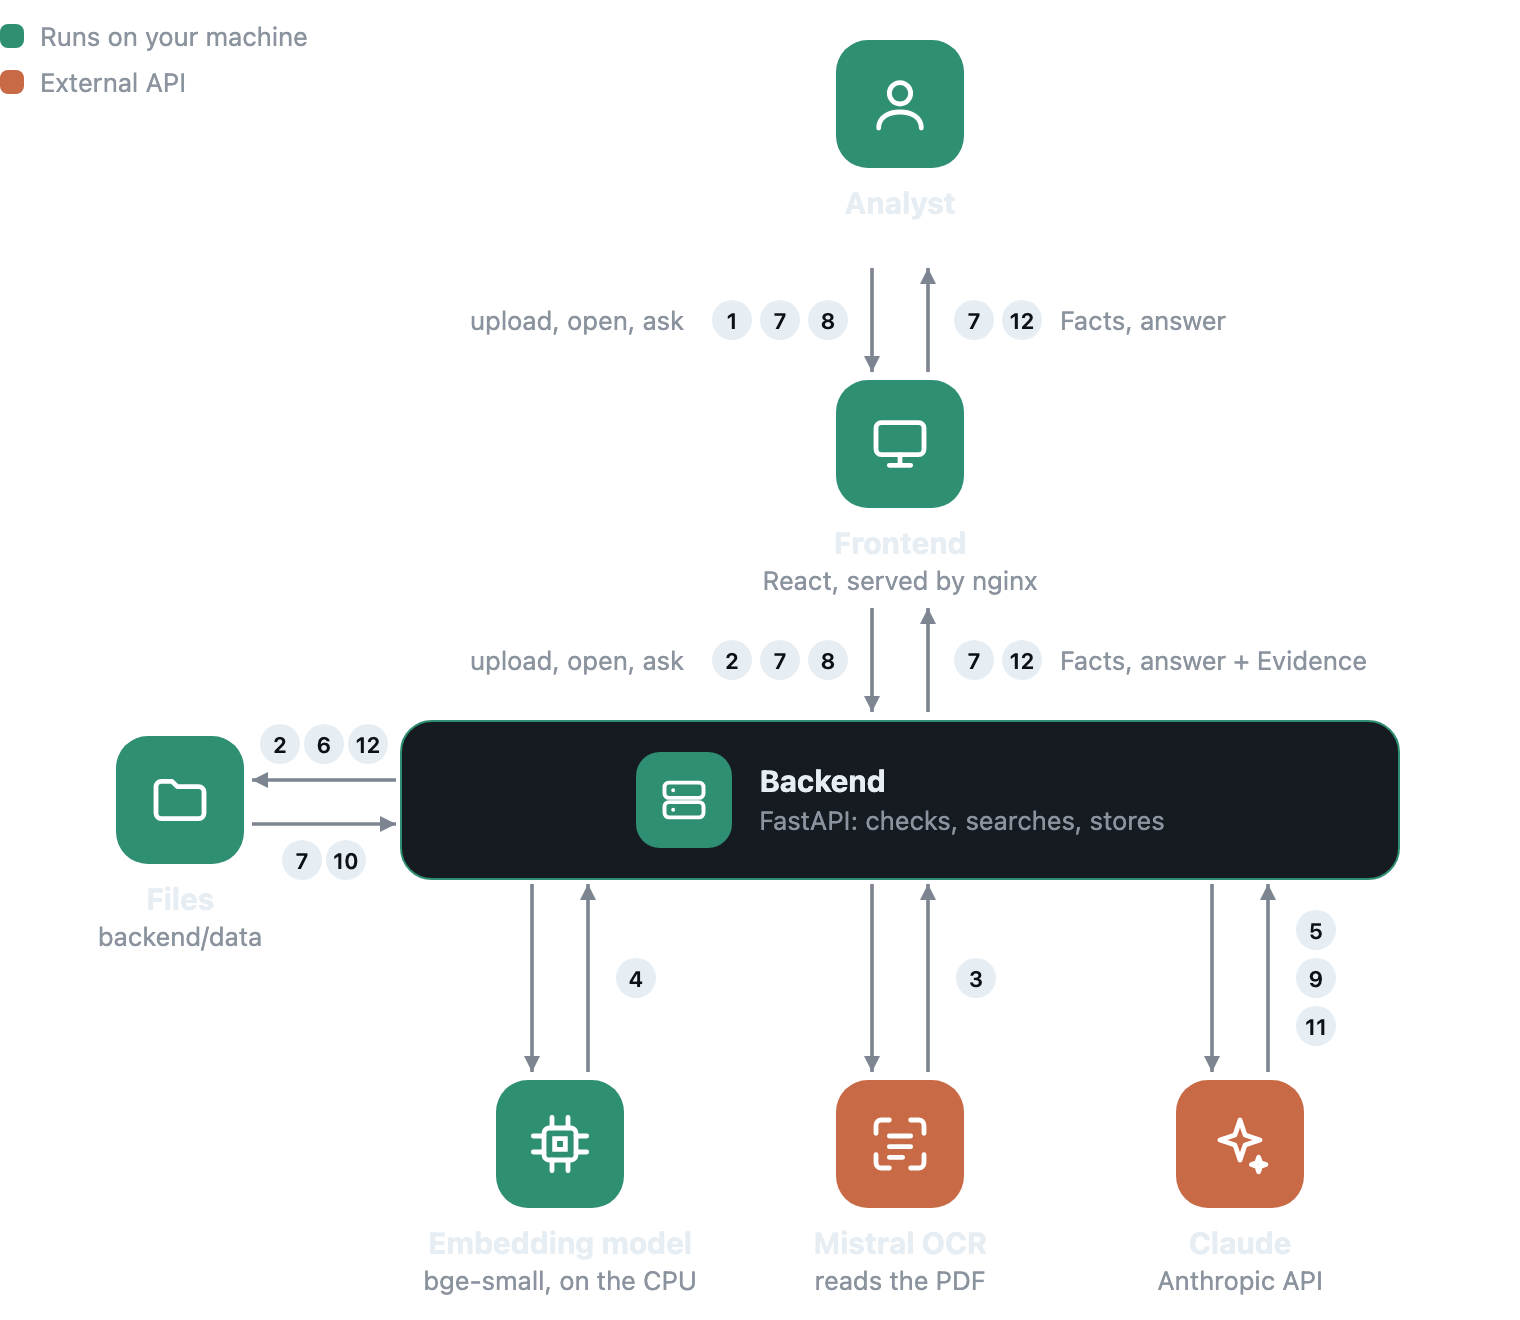
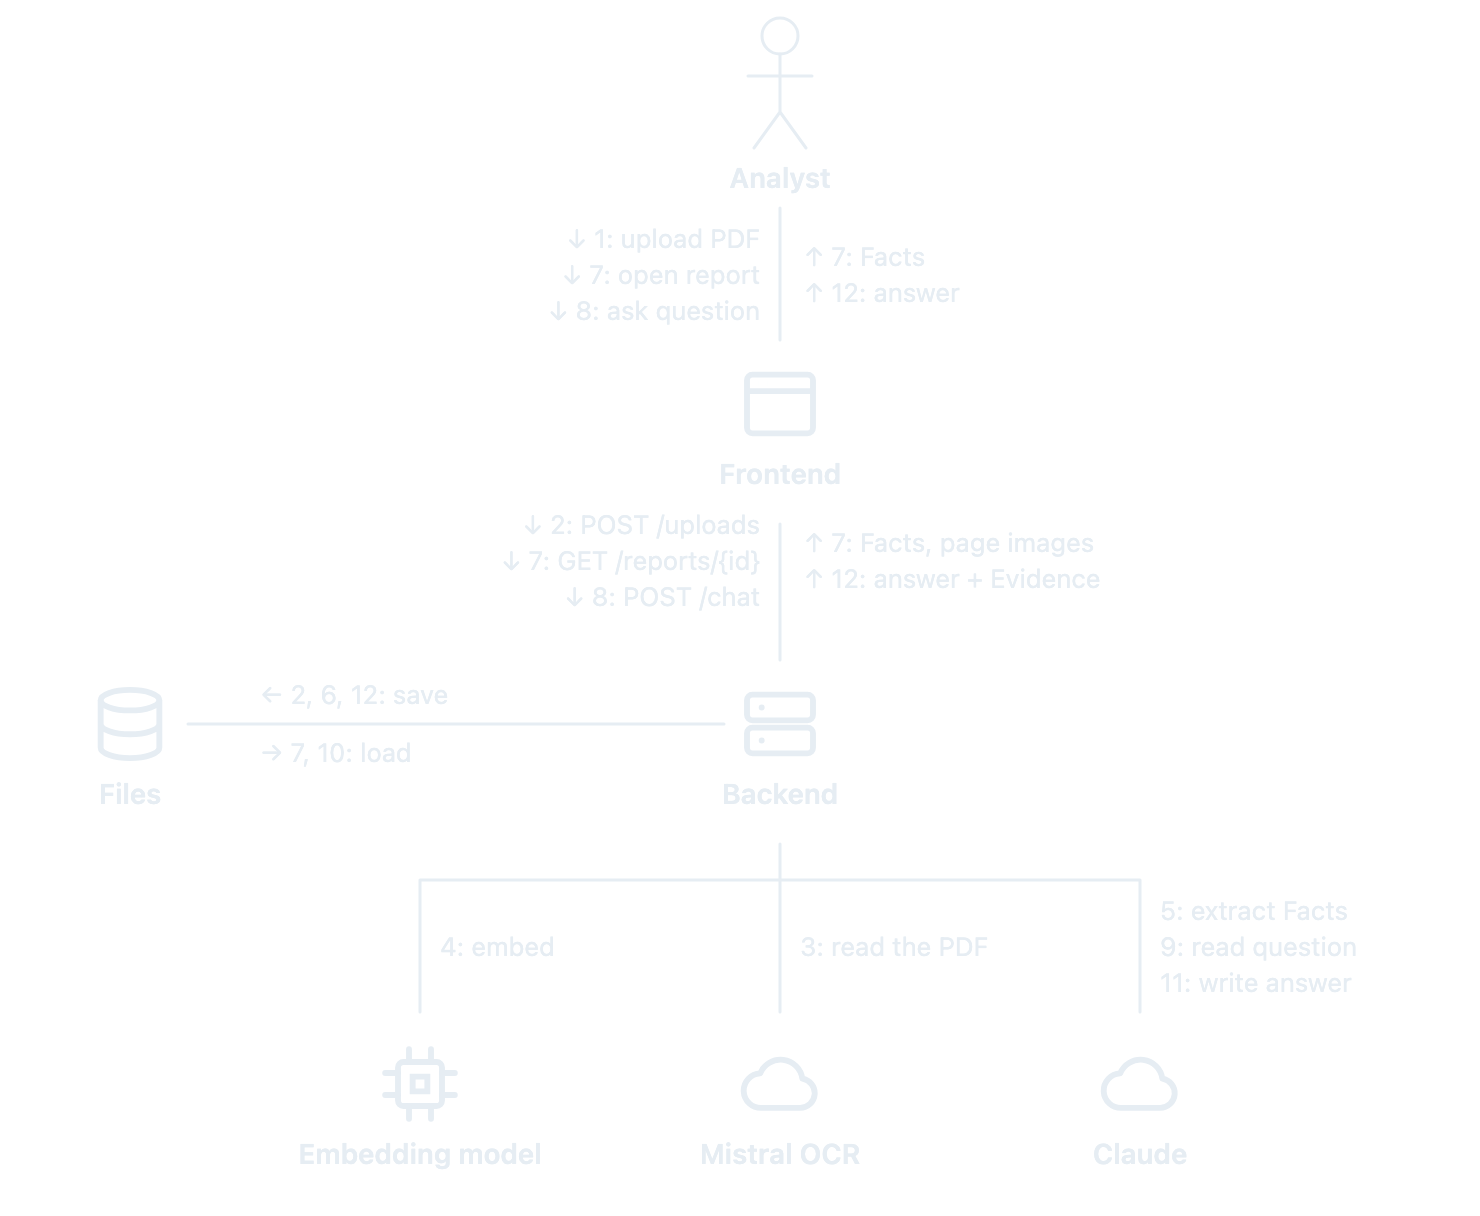
Docs: redraw how-it-works as a plain UML-style diagram
Stick-figure analyst, line icons for each part, and numbered messages along
the links, in black and white for both GitHub themes.

Changed region(s): [[0.0622, 0.1875, 0.9324, 1.0], [0.4973, 0.0312, 0.6527, 0.1562], [0.0, 0.0, 0.1865, 0.0938]]

diff --git a/docs/how-it-works.html b/docs/how-it-works.html
@@ -1,5 +1,6 @@
 <!doctype html>
-<!-- Source of docs/screenshots/how-it-works-{light,dark}.png; the numbered steps are listed in README.md.
+<!-- Source of docs/screenshots/how-it-works-{light,dark}.png, a UML communication diagram;
+     the numbered steps are listed in README.md.
      To update: edit, then screenshot #canvas at 2x with a transparent background,
      once as is and once with #dark in the URL. -->
 <html lang="en">
@@ -7,102 +8,63 @@
 <meta charset="utf-8">
 <title>How it works</title>
 <style>
-  :root {
-    --card: #ffffff; --line: #d3dcd8; --ink: #1c2522; --muted: #5d6b66;
-    --local: #2f7d66; --external: #c2603e; --arrow: #7d8c87; --badge: #1c2522; --badge-ink: #ffffff;
-  }
-  :root[data-theme="dark"] {
-    --card: #161b22; --line: #30363d; --ink: #e6edf3; --muted: #8b949e;
-    --local: #2f8f72; --external: #c96a47; --arrow: #7d8590; --badge: #e6edf3; --badge-ink: #0d1117;
-  }
+  :root { --ink: #1f2328; --muted: #57606a; --box: #ffffff; }
+  :root[data-theme="dark"] { --ink: #e6edf3; --muted: #9198a1; --box: #0d1117; }
   * { box-sizing: border-box; margin: 0; }
-  body { background: transparent; font: 14px/1.3 -apple-system, BlinkMacSystemFont, "Segoe UI", sans-serif; color: var(--ink); }
-  #canvas { position: relative; width: 760px; height: 660px; }
-  .node { position: absolute; width: 180px; margin-left: -90px; display: flex; flex-direction: column; align-items: center; text-align: center; }
-  .tile { width: 64px; height: 64px; border-radius: 16px; display: grid; place-items: center; color: #fff; background: var(--local); }
-  .tile.external { background: var(--external); }
-  .tile svg { width: 32px; height: 32px; }
-  .node b { margin-top: 8px; font-size: 15px; }
-  .node span, .backend span { font-size: 13px; color: var(--muted); }
-  .backend { position: absolute; left: 200px; top: 360px; width: 500px; height: 80px; display: flex; align-items: center; justify-content: center; gap: 14px; background: var(--card); border: 1.5px solid var(--local); border-radius: 16px; }
-  .backend .tile { width: 48px; height: 48px; border-radius: 12px; }
-  .backend .tile svg { width: 26px; height: 26px; }
-  .backend b { display: block; font-size: 15px; }
-  .label { position: absolute; font-size: 13px; color: var(--muted); white-space: nowrap; }
-  .label.left { text-align: right; }
-  .legend { position: absolute; left: 0; top: 10px; display: flex; flex-direction: column; gap: 6px; font-size: 13px; color: var(--muted); }
-  .legend i { display: inline-block; width: 12px; height: 12px; border-radius: 4px; margin-right: 8px; vertical-align: -1px; }
+  body { background: transparent; font: 13px/1.35 -apple-system, BlinkMacSystemFont, "Segoe UI", Helvetica, Arial, sans-serif; color: var(--ink); }
+  #canvas { position: relative; width: 740px; height: 608px; }
+  #shift { position: absolute; left: -140px; top: 0; width: 880px; height: 608px; }
+  .box { position: absolute; height: 86px; gap: 4px; display: flex; flex-direction: column; align-items: center; justify-content: center; }
+  .box i { font-style: normal; font-size: 11.5px; color: var(--muted); }
+  .box b { font-size: 14px; font-weight: 600; }
+  .box small { font-size: 11.5px; color: var(--muted); }
+  .box svg { width: 44px; height: 44px; }
+  .msg { position: absolute; white-space: nowrap; line-height: 18px; }
+  .msg.left { text-align: right; }
   svg.wires { position: absolute; inset: 0; }
-  svg.wires text { font: 600 11px -apple-system, BlinkMacSystemFont, "Segoe UI", sans-serif; fill: var(--badge-ink); }
 </style>
 </head>
 <body>
 <script>if (location.hash === "#dark") document.documentElement.dataset.theme = "dark";</script>
 <svg width="0" height="0" style="position:absolute">
-  <defs>
-    <symbol id="i-user" viewBox="0 0 24 24" fill="none" stroke="currentColor" stroke-width="1.8" stroke-linecap="round"><circle cx="12" cy="8" r="4"/><path d="M4 21c0-4 3.6-6 8-6s8 2 8 6"/></symbol>
-    <symbol id="i-monitor" viewBox="0 0 24 24" fill="none" stroke="currentColor" stroke-width="1.8" stroke-linecap="round" stroke-linejoin="round"><rect x="3" y="4" width="18" height="12" rx="2"/><path d="M8 20h8M12 16v4"/></symbol>
-    <symbol id="i-server" viewBox="0 0 24 24" fill="none" stroke="currentColor" stroke-width="1.8" stroke-linecap="round"><rect x="3" y="4" width="18" height="7" rx="2"/><rect x="3" y="13" width="18" height="7" rx="2"/><path d="M7 7.5h.01M7 16.5h.01"/></symbol>
-    <symbol id="i-folder" viewBox="0 0 24 24" fill="none" stroke="currentColor" stroke-width="1.8" stroke-linejoin="round"><path d="M3 7a2 2 0 0 1 2-2h4l2 2h8a2 2 0 0 1 2 2v8a2 2 0 0 1-2 2H5a2 2 0 0 1-2-2z"/></symbol>
-    <symbol id="i-cpu" viewBox="0 0 24 24" fill="none" stroke="currentColor" stroke-width="1.8" stroke-linecap="round"><rect x="6" y="6" width="12" height="12" rx="2"/><path d="M10 10h4v4h-4zM9 2v4M15 2v4M9 18v4M15 18v4M2 9h4M2 15h4M18 9h4M18 15h4"/></symbol>
-    <symbol id="i-scan" viewBox="0 0 24 24" fill="none" stroke="currentColor" stroke-width="1.8" stroke-linecap="round"><path d="M3 8V5a2 2 0 0 1 2-2h3M16 3h3a2 2 0 0 1 2 2v3M21 16v3a2 2 0 0 1-2 2h-3M8 21H5a2 2 0 0 1-2-2v-3M8 9h8M8 13h8M8 17h5"/></symbol>
-    <symbol id="i-spark" viewBox="0 0 24 24" fill="none" stroke="currentColor" stroke-width="1.8" stroke-linejoin="round"><path d="M12 3l1.9 5.6L19.5 10.5l-5.6 1.9L12 18l-1.9-5.6L4.5 10.5l5.6-1.9z"/><path d="M19 17l.7 2 2 .7-2 .7-.7 2-.7-2-2-.7 2-.7z"/></symbol>
-    <marker id="head" viewBox="0 0 10 10" refX="10" refY="5" markerWidth="8" markerHeight="8" markerUnits="userSpaceOnUse" orient="auto"><path d="M0 0L10 5L0 10z" fill="var(--arrow)"/></marker>
-    <g id="badge"><circle r="10" fill="var(--badge)"/></g>
-  </defs>
+  <!-- line icons, top right of each box -->
+  <symbol id="browser" viewBox="0 0 24 24" fill="none" stroke="var(--ink)" stroke-width="1.6"><rect x="3" y="4" width="18" height="16" rx="1.5"/><path d="M3 8.5h18M6 6.3h.01M8.5 6.3h.01"/></symbol>
+  <symbol id="server" viewBox="0 0 24 24" fill="none" stroke="var(--ink)" stroke-width="1.6" stroke-linecap="round"><rect x="3" y="4" width="18" height="7" rx="1.5"/><rect x="3" y="13" width="18" height="7" rx="1.5"/><path d="M7 7.5h.01M7 16.5h.01"/></symbol>
+  <symbol id="storage" viewBox="0 0 24 24" fill="none" stroke="var(--ink)" stroke-width="1.6"><ellipse cx="12" cy="5.5" rx="8" ry="2.8"/><path d="M4 5.5v13c0 1.5 3.6 2.8 8 2.8s8-1.3 8-2.8v-13M4 12c0 1.5 3.6 2.8 8 2.8s8-1.3 8-2.8"/></symbol>
+  <symbol id="chip" viewBox="0 0 24 24" fill="none" stroke="var(--ink)" stroke-width="1.6" stroke-linecap="round"><rect x="6" y="6" width="12" height="12" rx="1.5"/><path d="M10 10h4v4h-4zM9 2.5v3.5M15 2.5v3.5M9 18v3.5M15 18v3.5M2.5 9h3.5M2.5 15h3.5M18 9h3.5M18 15h3.5"/></symbol>
+  <symbol id="cloud" viewBox="0 0 24 24" fill="none" stroke="var(--ink)" stroke-width="1.6" stroke-linejoin="round"><path d="M7 18.5h10.5a4 4 0 0 0 .6-7.95A6 6 0 0 0 6.6 9.1 4.7 4.7 0 0 0 7 18.5z"/></symbol>
 </svg>
-
-<div id="canvas">
-  <div class="legend"><span><i style="background:var(--local)"></i>Runs on your machine</span><span><i style="background:var(--external)"></i>External API</span></div>
-
-  <div class="node" style="left:450px;top:20px"><div class="tile"><svg><use href="#i-user"/></svg></div><b>Analyst</b></div>
-  <div class="node" style="left:450px;top:190px"><div class="tile"><svg><use href="#i-monitor"/></svg></div><b>Frontend</b><span>React, served by nginx</span></div>
-  <div class="backend"><div class="tile"><svg><use href="#i-server"/></svg></div><div><b>Backend</b><span>FastAPI: checks, searches, stores</span></div></div>
-  <div class="node" style="left:90px;top:368px"><div class="tile"><svg><use href="#i-folder"/></svg></div><b>Files</b><span>backend/data</span></div>
-  <div class="node" style="left:280px;top:540px"><div class="tile"><svg><use href="#i-cpu"/></svg></div><b>Embedding model</b><span>bge-small, on the CPU</span></div>
-  <div class="node" style="left:450px;top:540px"><div class="tile external"><svg><use href="#i-scan"/></svg></div><b>Mistral OCR</b><span>reads the PDF</span></div>
-  <div class="node" style="left:620px;top:540px"><div class="tile external"><svg><use href="#i-spark"/></svg></div><b>Claude</b><span>Anthropic API</span></div>
-
-  <svg class="wires" width="760" height="660" fill="none" stroke="var(--arrow)" stroke-width="1.8" text-anchor="middle" dominant-baseline="central">
-    <!-- analyst <-> frontend -->
-    <path d="M436 134V186" marker-end="url(#head)"/><path d="M464 186V134" marker-end="url(#head)"/>
-    <!-- frontend <-> backend -->
-    <path d="M436 304V356" marker-end="url(#head)"/><path d="M464 356V304" marker-end="url(#head)"/>
-    <!-- backend <-> files -->
-    <path d="M198 390H126" marker-end="url(#head)"/><path d="M126 412H198" marker-end="url(#head)"/>
-    <!-- backend <-> embedding, Mistral, Claude -->
-    <path d="M266 442V536" marker-end="url(#head)"/><path d="M294 536V442" marker-end="url(#head)"/>
-    <path d="M436 442V536" marker-end="url(#head)"/><path d="M464 536V442" marker-end="url(#head)"/>
-    <path d="M606 442V536" marker-end="url(#head)"/><path d="M634 536V442" marker-end="url(#head)"/>
-
-    <g stroke="none">
-      <use href="#badge" x="366" y="160"/><text x="366" y="160">1</text>
-      <use href="#badge" x="390" y="160"/><text x="390" y="160">7</text>
-      <use href="#badge" x="414" y="160"/><text x="414" y="160">8</text>
-      <use href="#badge" x="487" y="160"/><text x="487" y="160">7</text>
-      <use href="#badge" x="511" y="160"/><text x="511" y="160">12</text>
-      <use href="#badge" x="366" y="330"/><text x="366" y="330">2</text>
-      <use href="#badge" x="390" y="330"/><text x="390" y="330">7</text>
-      <use href="#badge" x="414" y="330"/><text x="414" y="330">8</text>
-      <use href="#badge" x="487" y="330"/><text x="487" y="330">7</text>
-      <use href="#badge" x="511" y="330"/><text x="511" y="330">12</text>
-      <use href="#badge" x="140" y="372"/><text x="140" y="372">2</text>
-      <use href="#badge" x="162" y="372"/><text x="162" y="372">6</text>
-      <use href="#badge" x="184" y="372"/><text x="184" y="372">12</text>
-      <use href="#badge" x="151" y="430"/><text x="151" y="430">7</text>
-      <use href="#badge" x="173" y="430"/><text x="173" y="430">10</text>
-      <use href="#badge" x="318" y="489"/><text x="318" y="489">4</text>
-      <use href="#badge" x="488" y="489"/><text x="488" y="489">3</text>
-      <use href="#badge" x="658" y="465"/><text x="658" y="465">5</text>
-      <use href="#badge" x="658" y="489"/><text x="658" y="489">9</text>
-      <use href="#badge" x="658" y="513"/><text x="658" y="513">11</text>
-    </g>
+<div id="canvas"><div id="shift">
+  <svg class="wires" width="880" height="608" fill="none" stroke="var(--ink)" stroke-width="1.5" stroke-linecap="round">
+    <!-- actor -->
+    <circle cx="530" cy="18" r="9"/><path d="M530 27V56M514 38H546M530 56L517 74M530 56L543 74"/>
+    <text x="530" y="94" fill="var(--ink)" stroke="none" text-anchor="middle" font-size="14" font-weight="600">Analyst</text>
+    <!-- links -->
+    <path d="M530 104V170"/>
+    <path d="M530 262V330"/>
+    <path d="M234 362H502"/>
+    <path d="M530 422V440M350 440H710M350 440V506M530 440V506M710 440V506"/>
   </svg>
 
-  <div class="label left" style="right:418px;top:152px">upload, open, ask</div>
-  <div class="label" style="left:530px;top:152px">Facts, answer</div>
-  <div class="label left" style="right:418px;top:322px">upload, open, ask</div>
-  <div class="label" style="left:530px;top:322px">Facts, answer + Evidence</div>
-</div>
+  <div class="box" style="left:450px;top:170px;width:160px"><svg><use href="#browser"/></svg><b>Frontend</b></div>
+  <div class="box" style="left:450px;top:330px;width:160px"><svg><use href="#server"/></svg><b>Backend</b></div>
+  <div class="box" style="left:150px;top:330px;width:110px"><svg><use href="#storage"/></svg><b>Files</b></div>
+  <div class="box" style="left:270px;top:510px;width:160px"><svg><use href="#chip"/></svg><b>Embedding model</b></div>
+  <div class="box" style="left:450px;top:510px;width:160px"><svg><use href="#cloud"/></svg><b>Mistral OCR</b></div>
+  <div class="box" style="left:630px;top:510px;width:160px"><svg><use href="#cloud"/></svg><b>Claude</b></div>
+
+  <div class="msg left" style="right:360px;top:110px">↓ 1: upload PDF<br>↓ 7: open report<br>↓ 8: ask question</div>
+  <div class="msg" style="left:542px;top:119px">↑ 7: Facts<br>↑ 12: answer</div>
+
+  <div class="msg left" style="right:360px;top:253px">↓ 2: POST /uploads<br>↓ 7: GET /reports/{id}<br>↓ 8: POST /chat</div>
+  <div class="msg" style="left:542px;top:262px">↑ 7: Facts, page images<br>↑ 12: answer + Evidence</div>
+
+  <div class="msg" style="left:270px;top:338px">← 2, 6, 12: save</div>
+  <div class="msg" style="left:270px;top:367px">→ 7, 10: load</div>
+
+  <div class="msg" style="left:360px;top:464px">4: embed</div>
+  <div class="msg" style="left:540px;top:464px">3: read the PDF</div>
+  <div class="msg" style="left:720px;top:446px">5: extract Facts<br>9: read question<br>11: write answer</div>
+</div></div>
 </body>
 </html>
